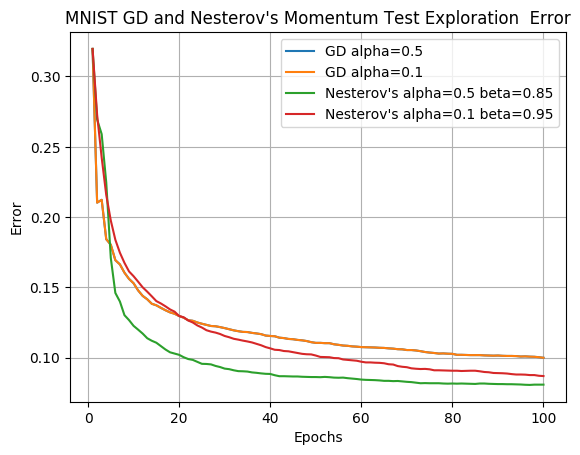
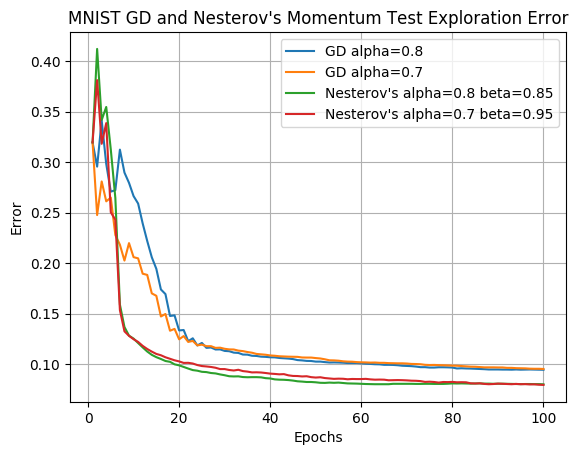
Updated GD and Momentum Exploration graphs and code + runtime part3

diff --git a/main.py b/main.py
@@ -404,19 +404,22 @@ if args.part1:
             models.append(algo())
             print(name, "done")
 
-        # Get model errors
-        metrics = get_model_errors(models, loss=True)
-        measures = ["Error", "Error", "Loss"]
-        titles = [
-            "GD and Nesterov's Momentum Training Exploration",
-            "GD and Nesterov's Momentum Test Exploration ",
-            "GD and Nesterov's Momentum Training Exploration"
-        ]
 
+        # Get model errors
+        model_error_tr = [get_error(Xs_tr, Ys_tr, model) for model in models]
+        print("Errors for training set done")
+        model_error_te = [get_error(Xs_te, Ys_te, model) for model in models]
+        print("Errors for test set done")
+        model_training_loss = [get_loss(Xs_te, Ys_te, model) for model in models]
+        print("Loss for training set done")
         # Get the range of times
         t = np.arange(1, num_epochs + 1)
-        # Plot metrics
-        plot_metrics(t, metrics, names, titles, measures)
+        # plot training error as a function of epochs
+        plot_error(t, model_error_tr, names, "GD and Nesterov's Momentum Training Exploration")
+        # plot test error as a function of epochs
+        plot_error(t, model_error_te, names, "GD and Nesterov's Momentum Test Exploration")
+        # plot training loss as a function of epochs
+        plot_error(t, model_training_loss, names, "GD and Nesterov's Momentum Training Exploration", measure='Loss')
 
 
 
@@ -557,7 +560,7 @@ if args.part3:
         names = ["Minibatch SGD", "ADAM"]
 
         # Make plots for the average runtimes
-        times = time_algos(names, algos)
+        times = time_algos(names, algos, runs=10)
         x_positions = np.arange(len(names))
 
         # plot runtime for training as a bar graph
